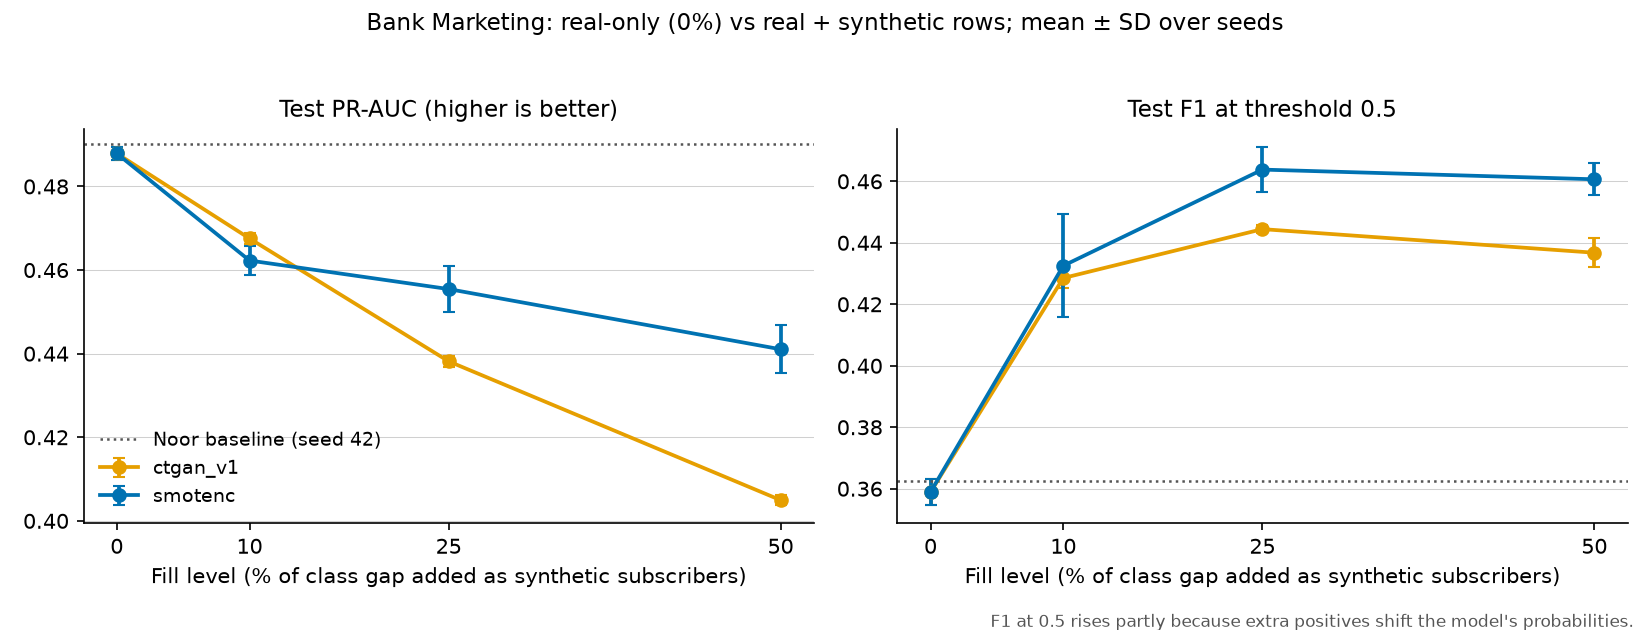
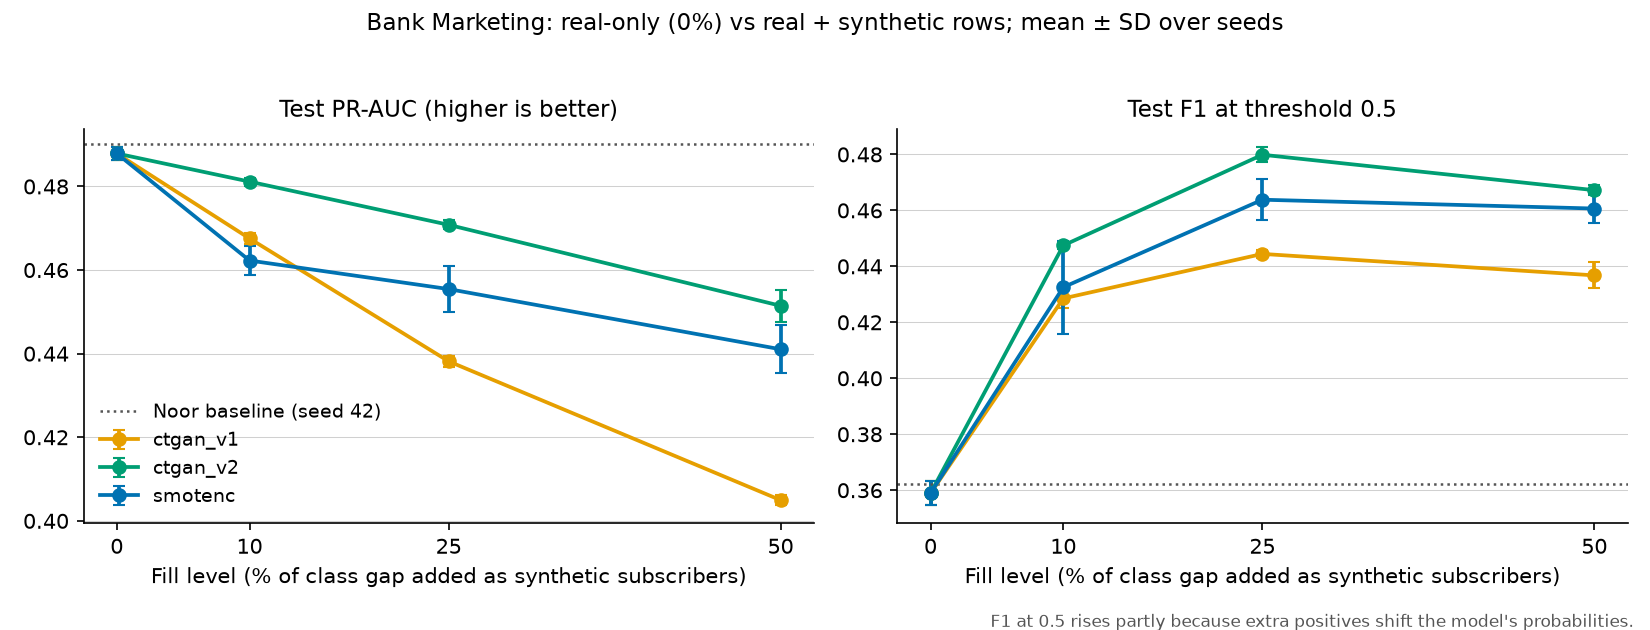
Add CTGAN v2 note and rerun the augmented-training comparison on v2

diff --git a/docs/notes/ctgan_bank_v2.md b/docs/notes/ctgan_bank_v2.md
@@ -1,0 +1,70 @@
+# CTGAN v2 on Bank Marketing
+
+v1 failed the quality checks (#49). v2 fixes most of it but does not pass every check, and its
+rows still do not beat real-only training. Files: `data/interim/bank_marketing/synthetic/bank_ctgan_v2_fill{10,25,50}.csv`
+(same format as v1; fill = share of the 20,780-row class gap; the smaller files are the first rows
+of the 50% file). Code: `eda/ctgan_bank/` (`train_variant.py`, `make_v2.py`, `ctgan_scoring.py`).
+Every run is in `eda/ctgan_bank/artifacts/ctgan_runs.csv`.
+
+## Result
+
+| | v1 | v2 (50% fill) | Limit |
+|---|---|---|---|
+| Mean column distance | 0.106 | 0.042 | 0.05 |
+| Worst column distance | 0.274 (`job`) | 0.117 (`balance`) | 0.10 |
+| Spearman difference | 0.066 | 0.045 | 0.045 |
+| Technician share of subscribers | 42% | 14.5% | 15.3% real |
+| Real-vs-synthetic AUC | 0.864 | 0.735 | about 0.47 (real vs real) |
+
+Limits are 2x the real-vs-real noise floor (`suggest_thresholds`). v2 passes the mean and
+Spearman checks, fails the worst-column check on `balance`, and a classifier can still tell the
+rows from real ones (AUC 0.735, down from 0.864).
+
+## What helped
+
+Each change was tried alone first (scores below are the 50% fill, 10,390 rows).
+
+| Change | Mean | AUC | Effect |
+|---|---|---|---|
+| v1 as saved | 0.106 | 0.864 | baseline |
+| Add the missing `pdays`/`poutcome` rule filter | 0.104 | 0.859 | removes the 1.8% contradictory rows, little else |
+| Sample without the target condition, keep subscriber rows | 0.094 | 0.832 | conditioning caused the `job` skew (technician 42% to 12%) |
+| Rake the pool to real job, month, poutcome, marital, day-of-month shares | 0.043 | 0.803 | biggest fidelity gain |
+| `pac` 5 (from 10) | 0.035 | 0.785 | smaller packs: AUC improves 20 < 10 < 5 |
+| Discriminator steps 3 (from 1) | 0.040 | 0.781 | a stricter discriminator |
+| `pac` 5 + steps 3 | 0.041 | 0.737 | best; saved as v2 |
+
+The rake rows use the unconditional sampling and the rule filter too.
+
+## What did not help
+
+- **More epochs (600):** mean 0.051 and Spearman 0.115 after raking, worse than 300 epochs.
+- **`pac` 20:** worse on every check (technician 74.5% when conditioned, AUC 0.92).
+
+## Caveat
+
+Raking matches the exact category shares the scorecard measures, so part of the fidelity gain is by
+design. The AUC and the downstream result below are the independent checks.
+
+## Downstream (#35 comparison, Bank, 5 seeds)
+
+Test PR-AUC with real training rows plus synthetic subscribers:
+
+| Fill | Real only | SMOTENC | CTGAN v1 | CTGAN v2 |
+|---|---|---|---|---|
+| 0% | 0.488 | | | |
+| 10% | | 0.462 | 0.468 | 0.481 |
+| 25% | | 0.455 | 0.438 | 0.471 |
+| 50% | | 0.441 | 0.405 | 0.452 |
+
+v2 removes most of v1's loss (at 50%, -0.083 becomes -0.036) and beats SMOTENC at every fill level,
+but no synthetic arm beats real-only training. F1 at threshold 0.5 rises with synthetic rows
+(0.359 to 0.448-0.480), mostly from the threshold shift, not better ranking. Models and threshold
+are the provisional ones; rerun after #52 freezes them.
+
+## Open
+
+- `balance` (a skewed numeric column) is the remaining failing check.
+- Not tried: `pac` below 5, more discriminator steps, other network sizes.
+- The same recipe (unconditional sampling, rule filter, raking, small `pac`) should carry over to
+  Default and Polish.
